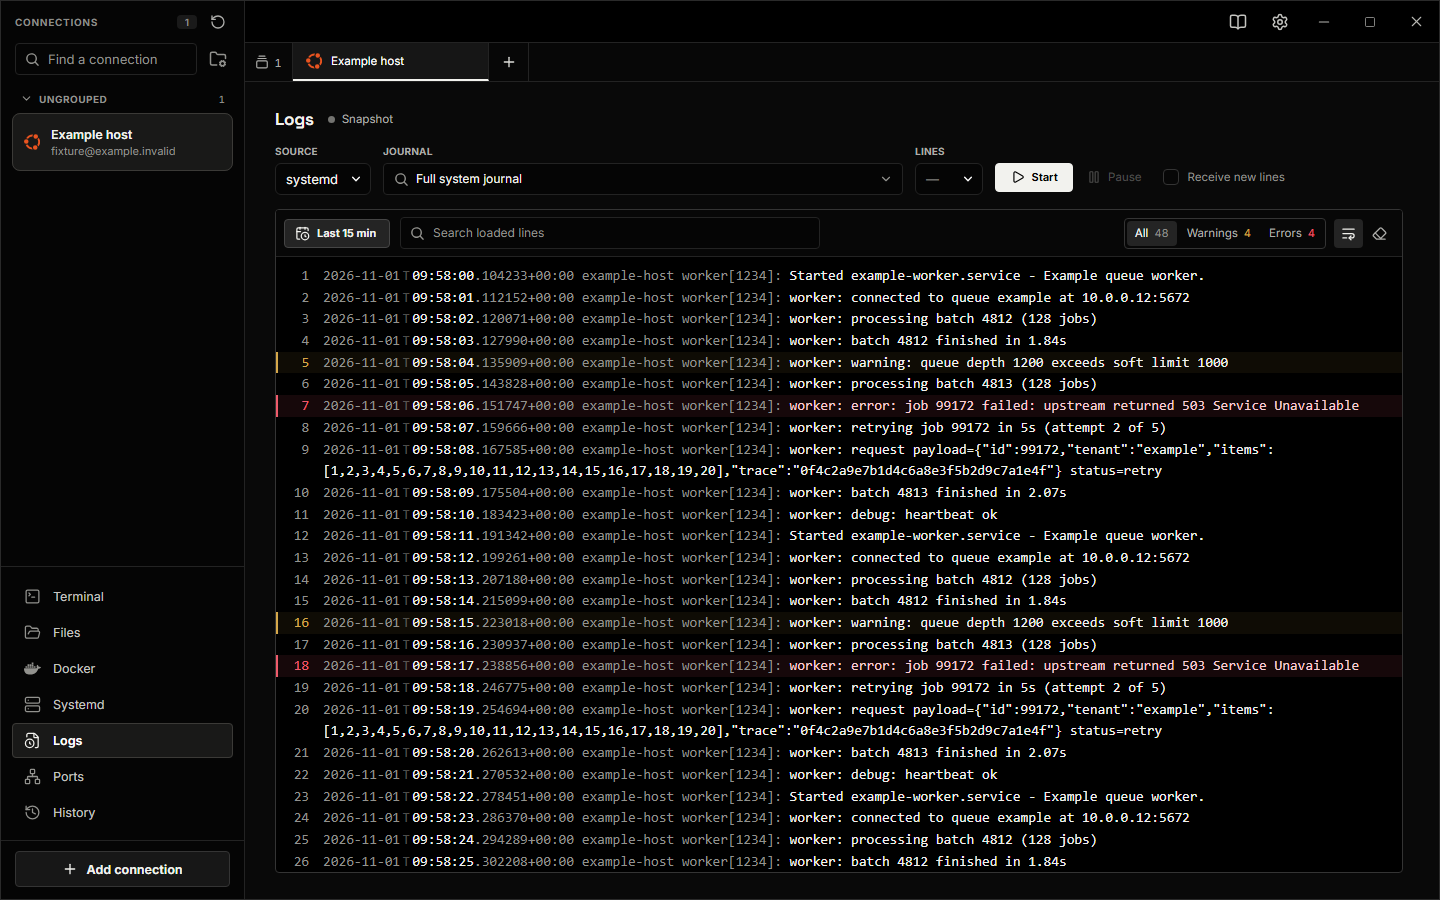
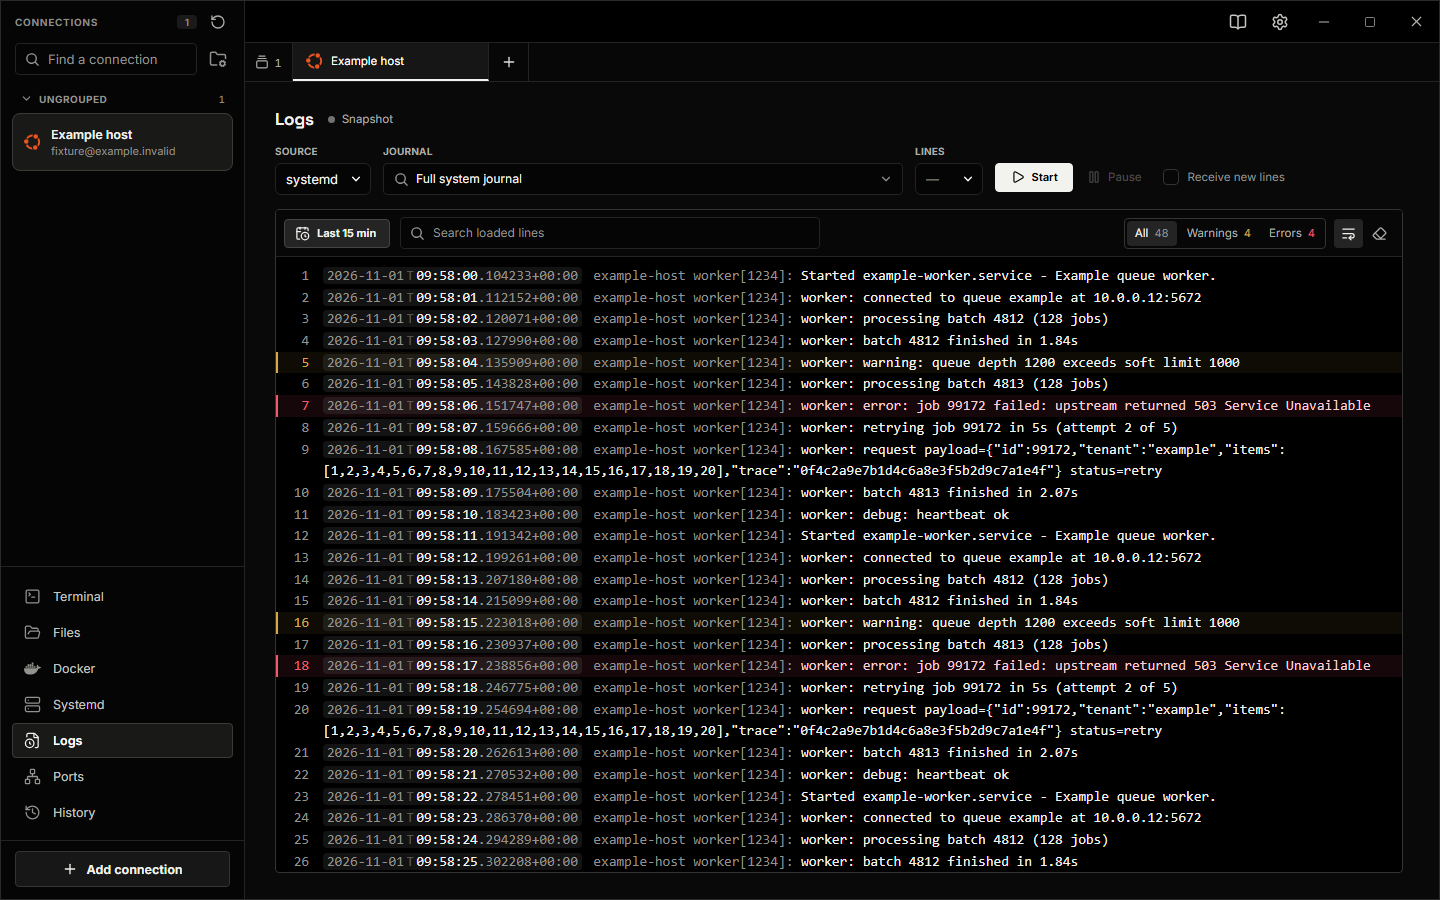
Set log timestamps apart from the host and process name
Group the timestamp parts in one span with a faint translucent fill, so
the timestamp reads as its own column instead of blending into the gray
host and process name. The translucent fill keeps warning and error row
tints visible.

Changed region(s): [[0.2188, 0.28, 0.9375, 0.9644]]

diff --git a/src/pages/LogsPane.tsx b/src/pages/LogsPane.tsx
@@ -8,6 +8,7 @@ import {
   useRef,
   useState,
   type CSSProperties,
+  type ReactNode,
 } from "react";
 import { Channel } from "@tauri-apps/api/core";
 import { listen } from "@tauri-apps/api/event";
@@ -33,6 +34,7 @@ import {
   LogLineCache,
   lineMatches,
   type LogLevelFilter,
+  type LogSegmentRole,
   type ParsedLogLine,
 } from "../lib/log-lines";
 import { isCacheFresh, reconcileSelection } from "../lib/workspace-cache";
@@ -84,23 +86,34 @@ const rangeDateFormat = new Intl.DateTimeFormat(undefined, {
 const CHUNK_LINES = 100;
 const LINE_HEIGHT = 1.55;
 type LogRowData = { number: number; line: ParsedLogLine };
+const TIMESTAMP_ROLES = new Set<LogSegmentRole>(["date", "separator", "time", "fraction", "zone"]);
 
 function LogRow({ number, line, query }: LogRowData & { query: string }) {
   const parts = query ? highlightSegments(line.segments, query) : null;
-  const content = line.segments.map((segment, index) => {
+  const stamp: ReactNode[] = [];
+  const rest: ReactNode[] = [];
+  line.segments.forEach((segment, index) => {
     const text = parts
       ? parts[index].map((part, partIndex) =>
           part.match ? <mark key={partIndex}>{part.text}</mark> : part.text,
         )
       : segment.text;
-    return segment.role === "message" ? (
-      <Fragment key={index}>{text}</Fragment>
-    ) : (
-      <span key={index} className={`log-${segment.role}`}>
-        {text}
-      </span>
-    );
+    const element =
+      segment.role === "message" ? (
+        <Fragment key={index}>{text}</Fragment>
+      ) : (
+        <span key={index} className={`log-${segment.role}`}>
+          {text}
+        </span>
+      );
+    (TIMESTAMP_ROLES.has(segment.role) ? stamp : rest).push(element);
   });
+  const content = (
+    <>
+      {stamp.length > 0 && <span className="log-stamp">{stamp}</span>}
+      {rest}
+    </>
+  );
   return (
     <div
       className="log-line"

diff --git a/src/styles/features/logs.css b/src/styles/features/logs.css
@@ -448,6 +448,15 @@
   color: var(--text-faint);
 }
 
+.log-stamp {
+  border-radius: var(--radius-sm);
+  background: color-mix(in srgb, var(--text) 8%, transparent);
+  padding-inline: 0.5ch;
+  margin-right: 0.5ch;
+  -webkit-box-decoration-break: clone;
+  box-decoration-break: clone;
+}
+
 .log-separator {
   margin-inline: 0.3ch;
   color: color-mix(in srgb, var(--text-faint) 55%, transparent);
